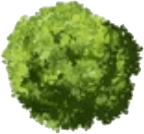
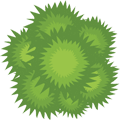
Add more trees

diff --git a/src/Terrain/Terrain.ts b/src/Terrain/Terrain.ts
@@ -9,11 +9,14 @@ import { ClaimableObjects } from './ClaimableObjects'
 import { Road } from './Road'
 
 const terrainAssets = [
-  {
-    alias: 'tree01',
-    src: 'terrain/tree01.png',
-  },
+  { alias: 'tree01', src: 'terrain/tree01.png' },
+  { alias: 'tree02', src: 'terrain/tree02.png' },
+  { alias: 'tree03', src: 'terrain/tree03.png' },
+  { alias: 'tree04', src: 'terrain/tree04.png' },
 ]
+
+const BASE_Y_POS = -50
+const terrainAliases = terrainAssets.map((el) => el.alias)
 
 let elapsedDistance = 0.0
 let distanceSegments = 0
@@ -75,13 +78,13 @@ export class Terrain extends Container implements IMajorGameContainer {
     })
   }
 
-  private addObject(assetName: string | Sprite, x: number) {
+  private addObject(assetName: string | Sprite, scale: number, x: number, y: number = BASE_Y_POS) {
     const sprite = assetName instanceof Sprite ? assetName : Sprite.from(assetName)
     sprite.cullable = true
     sprite.anchor.set(0.5)
-    sprite.scale.set(0.6)
+    sprite.scale.set(scale)
     sprite.x = x
-    sprite.y = -50
+    sprite.y = y
     this.terrainObjects.add(sprite)
     this.addChild(sprite)
   }
@@ -92,19 +95,36 @@ export class Terrain extends Container implements IMajorGameContainer {
     sprite.destroy()
   }
 
+  private drawTrees() {
+    // бросаем кубик, и если ок, то рисуем статичный объект
+    let i = 0
+    if (rollDiceBool(3)) {
+      for (const alias of terrainAliases) {
+        if (rollDiceBool(2 + i)) {
+          this.addObject(
+            alias,
+            0.5 + Math.random()*0.2,
+            APP_WIDTH - 20 + Math.random() * 30,
+            BASE_Y_POS + Math.random() * 50
+          )
+        }
+        i++
+      }
+    }
+  }
+
   checkObjectRelease(segments: number) {
     // рисуем монеты
     if (segments % 10 === 8) {
       this.claimable.checkObjectRelease()
     }
 
-    // бросаем кубик, и если ок, то рисуем статичный объект
-    if (rollDiceBool(3)) {
-      this.addObject('tree01', APP_WIDTH - 15)
-    }
+    // рисуем деревья
+    this.drawTrees()
+
     // рисуем А-полосу каждые 200 метров
     if (segments % 20 === 0) {
-      this.addObject(new Sprite(this.letterAtexture), APP_WIDTH - SIDEWALK_WIDTH - ROAD_LANE_WIDTH / 2)
+      this.addObject(new Sprite(this.letterAtexture), 0.6, APP_WIDTH - SIDEWALK_WIDTH - ROAD_LANE_WIDTH / 2)
     }
   }
 

diff --git a/src/Game.ts b/src/Game.ts
@@ -86,7 +86,7 @@ export class Game {
 
   private onResize(): void {
     let ratio = 1
-    const { offsetWidth , offsetHeight } = this.rootContainer
+    const { offsetWidth, offsetHeight } = this.rootContainer
     if (offsetWidth < APP_WIDTH) {
       ratio = Math.round(Math.max(offsetWidth / APP_WIDTH, 0.4) * 100) / 100
     } else if (offsetHeight < APP_HEIGHT) {
@@ -162,11 +162,6 @@ export class Game {
     if (this.state.paused) return
     if (this.handleHotkeys()) return
 
-    this.hud.draw(this.state)
-    this.hero.draw(this.state, time)
-    this.cars.draw(this.state, time)
-    this.terrain.draw(this.state)
-
     const heroBounds = this.hero.getBounds()
     const carBounds = this.cars.getCarsBounds()
     const collision = calculateNextMove(this.state, this.controller.state, heroBounds, carBounds)
@@ -200,5 +195,10 @@ export class Game {
     }
 
     this.handleClaimable(heroBounds)
+
+    this.hud.draw(this.state)
+    this.hero.draw(this.state, time)
+    this.cars.draw(this.state, time)
+    this.terrain.draw(this.state)
   }
 }

diff --git a/src/topScore.ts b/src/topScore.ts
@@ -1,0 +1,35 @@
+
+type ScorePair = [string, number]
+
+const storageKey = 'clines_local_top'
+
+const mockData = [
+  ['User1', 18000],
+  ['User2', 9000],
+  ['User3', 3000],
+  ['User4', 1000],
+  ['User5', 500],
+  ['User6', 200],
+] as ScorePair[]
+
+
+export function getTopResults(): ScorePair[] {
+  const results = loadTopFromStorage()
+  return results.length ? results : mockData
+}
+
+function loadTopFromStorage(): ScorePair[] {
+  const stringData = localStorage[storageKey]
+  const data = JSON.parse(stringData || '[]') as ScorePair[]
+  return data
+}
+
+function saveTopToStorage(name: string, score: number) {
+  const stringData = localStorage[storageKey]
+  let data = JSON.parse(stringData || '[]') as ScorePair[]
+  data.push([name, score])
+  data.sort((a, b) => a[1] - b[1])
+  data = data.slice(0, 10)
+
+  localStorage[storageKey] = JSON.stringify(data)
+}

diff --git a/src/utils.ts b/src/utils.ts
@@ -12,13 +12,6 @@ export function formatDistance(distance: number, pad: number = 0) {
   return (Math.floor(distance / 10) / 100).toFixed(1).padStart(pad, '0')
 }
 
-const gears = [0, 25, 50, 85, 120]
-export function calculateGear(speed: number) {
-  let gear = 0
-  while (speed > gears[gear]) gear++
-  return gear ? String(gear) : 'P'
-}
-
 // eslint-disable-next-line @typescript-eslint/no-explicit-any
 export function throttle<T extends (...args: any[]) => any>(func: T, wait: number): (...args: Parameters<T>) => void {
   let inThrottle = false,

diff --git a/vite.config.ts b/vite.config.ts
@@ -1,9 +1,10 @@
-import { defineConfig } from 'vite'
+import { defineConfig, loadEnv } from 'vite'
 
 const version = process.env.npm_package_version
 
-export default defineConfig(() => {
-  const publicEnv = { VITE_APP_VERSION_PUBLIC: version }
+export default defineConfig(({ mode }) => {
+  const env = loadEnv(mode, process.cwd(), '')
+  const publicEnv = { VITE_APP_VERSION_PUBLIC: version, NODE_ENV: env.NODE_ENV }
 
   return {
     define: {

diff --git a/src/physics.ts b/src/physics.ts
@@ -12,6 +12,13 @@ function calculateDistanceBySpeed(speed: number) {
   return speed * 0.01
 }
 
+const gears = [0, 25, 50, 85, 120]
+export function calculateGear(speed: number) {
+  let gear = 0
+  while (speed > gears[gear]) gear++
+  return gear ? String(gear) : 'P'
+}
+
 export function calculateNextMove(
   state: State,
   controllerState: ControllerState,
@@ -84,3 +91,4 @@ export function calculateNextMove(
 
   return collision
 }
+

diff --git a/src/configuration.ts b/src/configuration.ts
@@ -14,10 +14,12 @@ export const SIDEWALK_WIDTH = 80
 
 export const TOP_SPEED = 150
 
-const isDevPlatform = window.location.hostname.indexOf('localhost') > -1
+const isDevPlatform = process.env.NODE_ENV === 'development'
+const isLocalPlatform = window.location.hostname.indexOf('localhost') > -1
 
 export const gameConfiguration = {
-  isDevPlatform: isDevPlatform,
+  isDevPlatform,
+  isLocalPlatform,
 }
 
 export const zIndexFixed = {

diff --git a/src/HUD/Gauges.ts b/src/HUD/Gauges.ts
@@ -1,7 +1,8 @@
 import { BitmapText, Container, Graphics } from 'pixi.js'
 import { APP_WIDTH } from '../configuration'
 import fontStyles from '../fontStyles.json'
-import { calculateGear, formatDistance } from '../utils'
+import { formatDistance } from '../utils'
+import { calculateGear } from "../physics"
 
 const POS_X = APP_WIDTH - 200
 const POS_Y = 20
